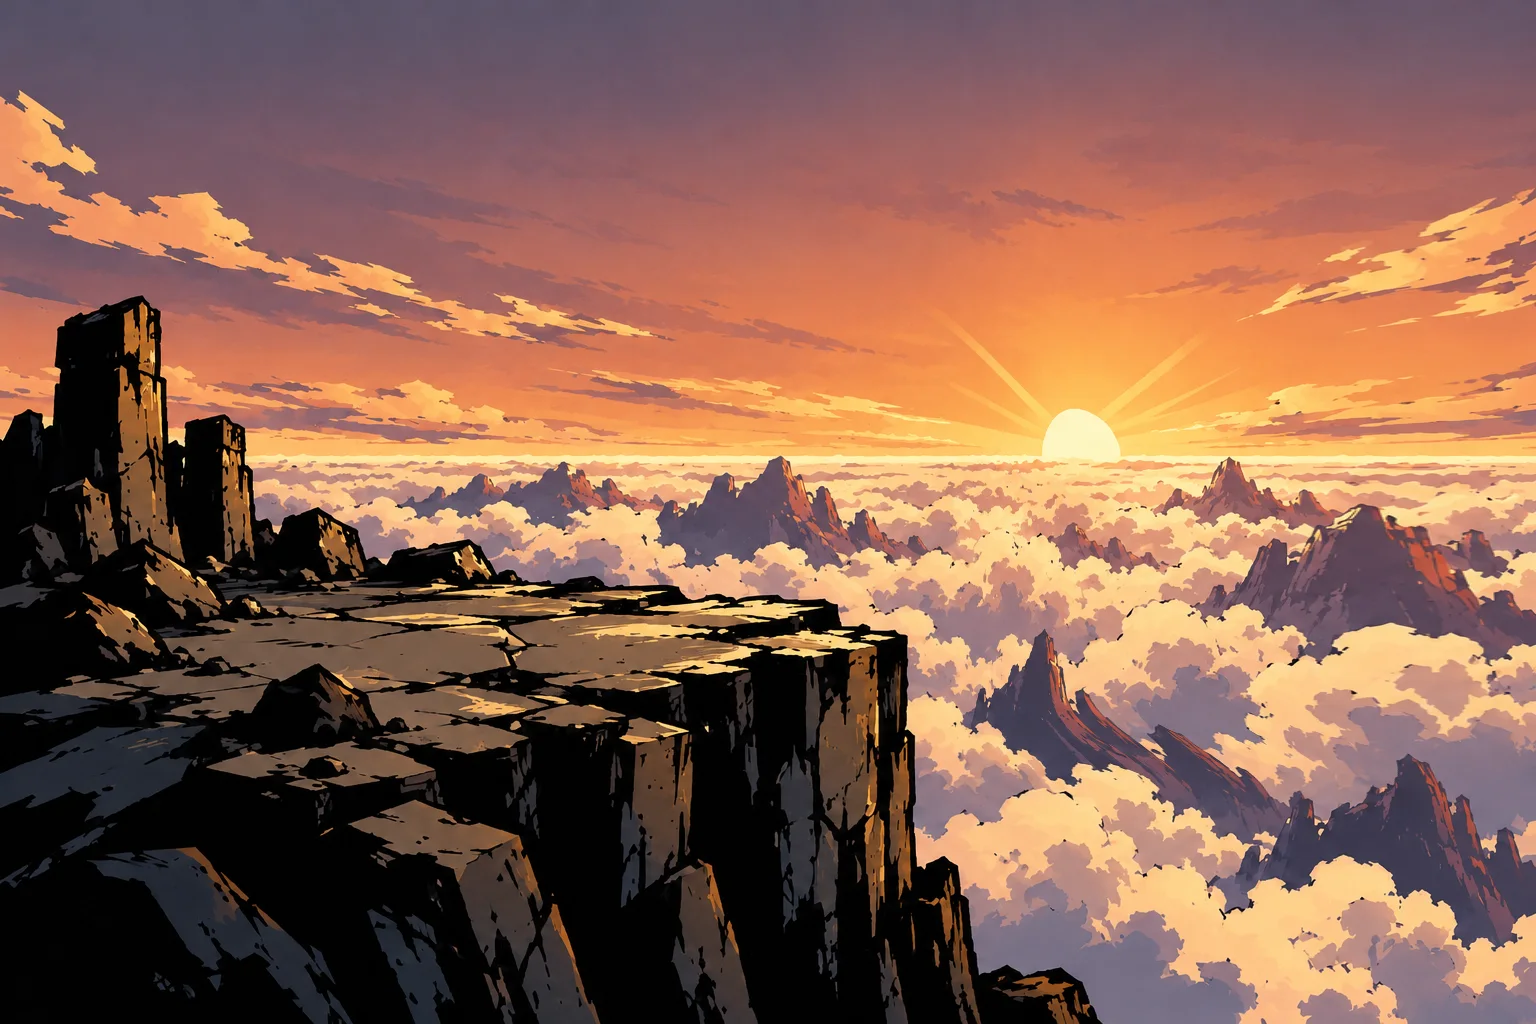
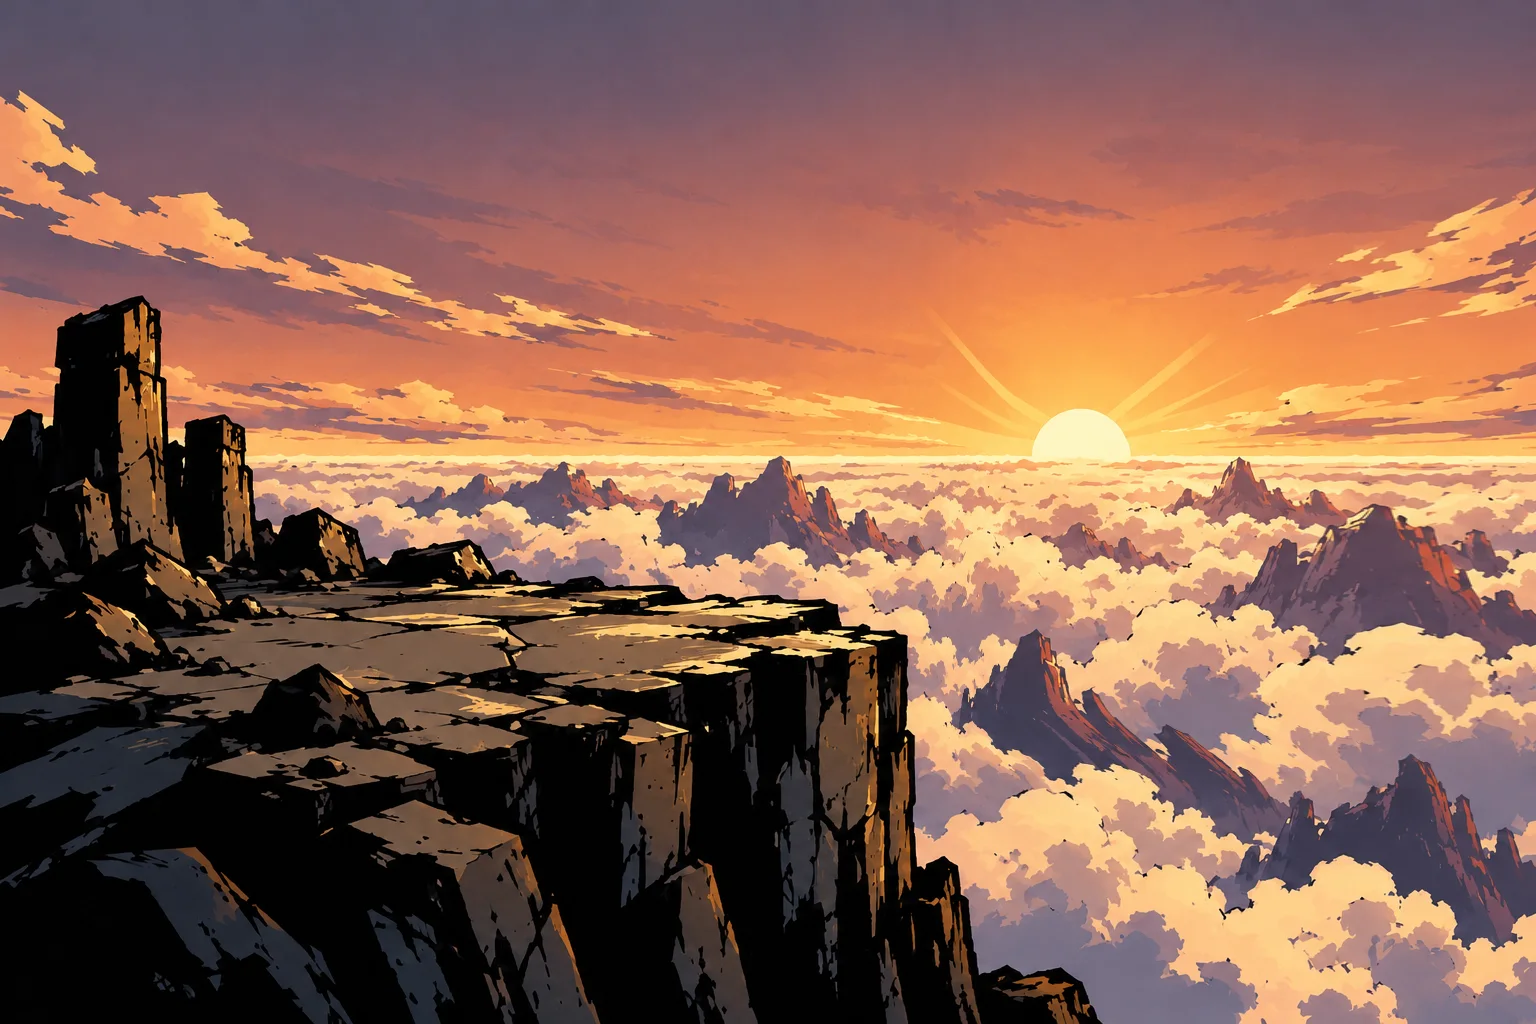
Animatic: de zon in de stilte weer rond
Bij het dichter naar de rots schuiven werd de linkerhelft van de zon mee
samengedrukt (een ei). Het samendrukken stopt nu vóór de zon, die in zijn
geheel opschuift: precies de vorm uit de tekening (70 px in plaats van 80;
op een telefoon het beeld en Daan een fractie bijgeschoven).

Changed region(s): [[0.5938, 0.3438, 0.9688, 0.75], [0.8125, 0.2188, 0.9688, 0.3125], [0.9375, 0.625, 0.9688, 0.6562]]

diff --git a/src/animatic/script.ts b/src/animatic/script.ts
@@ -552,9 +552,9 @@ export const SCENES: Scene[] = [
         note: 'De top van de berg, net na zonsopgang, stil; Daan zit alleen op een platte steen, ogen dicht, handen open, in vrede',
         layers: [
           // De zon iets dichter bij de rots (scripts/berg-zon.py), zodat ze op een telefoon samen in beeld passen
-          { src: K('berg-top-zon'), alt: K('berg-top'), fit: 'cover', pos: '65% 50%', depth: 0.1 },
+          { src: K('berg-top-zon'), alt: K('berg-top'), fit: 'cover', pos: '66% 50%', depth: 0.1 },
           // Op de rots: zijn eigen steen ligt op de rand van de klif, niet ervoor
-          { src: K('daan-stil'), fit: 'fig', x: 25, b: 30, h: 18, d: [30, 25, 38], depth: 0.4, anim: 'breathe' },
+          { src: K('daan-stil'), fit: 'fig', x: 23, b: 30, h: 18, d: [30, 25, 38], depth: 0.4, anim: 'breathe' },
         ],
       },
     ],

diff --git a/scripts/berg-zon.py b/scripts/berg-zon.py
@@ -14,8 +14,10 @@ from PIL import Image
 ROOT = Path(__file__).resolve().parent.parent
 SRC = ROOT / "art/verhaal/berg-top-kleur.png"
 OUT = ROOT / "art/verhaal/berg-top-zon-kleur.png"
-SHIFT = 80  # zoveel pixels schuift de zon naar links (van ~1150 naar ~1070 in het 1536-beeld)
-SQUEEZE = (930, 1095)  # hier wordt samengedrukt: rechts van de rand van de rots, tot net links van de zon
+SHIFT = 70  # zoveel pixels schuift de zon naar links (van 1150 naar 1080 in het 1536-beeld; straal ~50 met de rand)
+# Hier wordt samengedrukt (in het nieuwe beeld): rechts van de rand van de rots, en klaar vóór de zon begint (1080 - 50),
+# zodat de zon in zijn geheel opschuift en rond blijft
+SQUEEZE = (910, 1022)
 STRETCH = (1290, 1536)  # en hier opgerekt
 STILL = (690, 800)  # onder deze rijen loopt de rots verder naar rechts: daar schuift niets (zacht overgaand)
 
